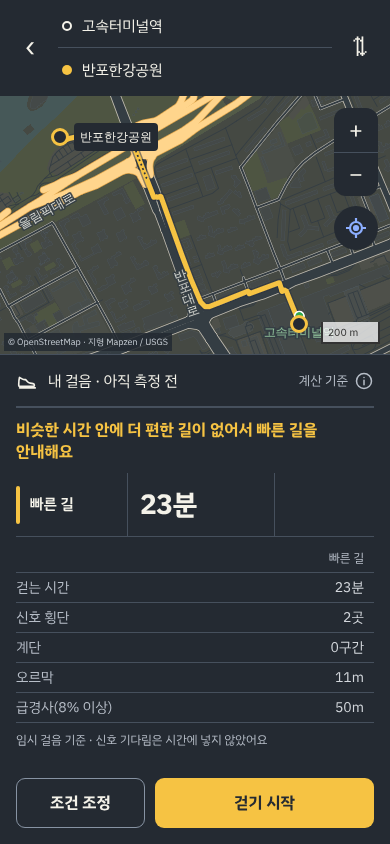
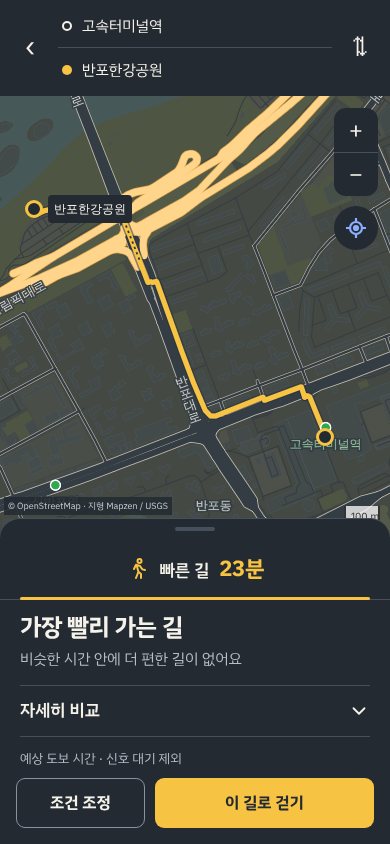
결과 시트를 목업 구조로: 쭉고 길/빠른 길 2열 탭(50:50·기준선 정렬), 배지·제목·부제, 자세히 비교(아이콘 표), 회색 빠른 길 실선과 이름표, 기존 쭉고 색 토큰 사용
- 탭: 같은 크기 글자로 아이콘·이름·시간 세로 가운데 일치, 좌우 여백 동일, 활성 밑줄은 탭 영역 안쪽
- 지도: 빠른 길 회색 실선(#959EAC) + 두 길이 가장 먼 지점에 이름표
- 자세히 비교 펼침 시 시트 74%까지, 나머지는 스크롤(지도 유지)
- 표 강조 기준: 시간 30초, 오르막 5m, 급경사 50m(부제의 '증가' 기준과 같음)
- check_screens: 두 탭 50:50·기준선, 제목·부제·배지, 도보 시간 안내 위치 검사 추가(26개 통과)

Claude-Session: https://claude.ai/code/session_01Y2WgFcYuk5dsuevPeJgQ1A

diff --git a/docs/prototype/index.html b/docs/prototype/index.html
@@ -73,6 +73,46 @@ button,input,select{font:inherit}button{color:inherit;cursor:pointer}button:disa
 .compare-line{margin:0;padding:12px 0 10px;border-top:1px solid var(--line);font-size:16px;font-weight:700;color:var(--lane);line-height:1.35}
 .metrics{margin:6px 0 4px;font-size:14px}.metrics .mrow{display:grid;grid-template-columns:38% 31% 31%;align-items:center;min-height:30px;border-bottom:1px solid var(--line)}.metrics.one .mrow{grid-template-columns:38% 62%}
 .metrics .mrow span:not(:first-child){text-align:right;padding-right:10px;color:#D3D7DC}.metrics .mrow span:first-child{color:var(--muted)}.metrics .mhead span{font-size:12px;color:var(--muted)!important}.metrics .better{color:var(--lane)!important;font-weight:700}
+/* 결과 시트: 빠른 길·쭉고 길 탭(정확한 2열), 배지·제목·부제, 자세히 비교 — 색은 기존 토큰(--lane, --asphalt, --panel, --line, --muted, --zebra)만 */
+#map-result{bottom:calc(var(--sheet-h) - 20px)}
+#sheet-result{border-radius:20px 20px 0 0;border-top:1px solid var(--line)}
+#sheet-result .grip-area{display:flex;justify-content:center;align-items:center;height:20px;padding:0;cursor:grab}
+#sheet-result .grip{width:40px;height:4px;border-radius:2px;background:var(--line);margin:0}
+#sheet-result .sheet-body{padding:0 20px}
+.rtabs{display:grid;grid-template-columns:1fr 1fr;margin:0 -20px;border-bottom:1px solid var(--line)}
+.rtabs.one{grid-template-columns:1fr}
+.rtab{position:relative;display:flex;align-items:center;justify-content:center;gap:10px;height:60px;padding:0 20px;border:0;background:none;color:var(--muted);min-width:0}
+.rtab .ti{width:24px;height:24px;flex:none}
+.rtab .tl{display:inline-flex;align-items:baseline;gap:10px;min-width:0;white-space:nowrap}
+.rtab .name{font-size:17px;font-weight:600;line-height:1}
+.rtab .mins{font-size:22px;font-weight:700;line-height:1;font-variant-numeric:tabular-nums;letter-spacing:-.3px}
+.rtab[aria-pressed=true] .ti,.rtab[aria-pressed=true] .mins{color:var(--lane)}
+.rtab[aria-pressed=true] .name{color:var(--zebra)}
+.rtab[aria-pressed=true]::after{content:"";position:absolute;left:20px;right:20px;bottom:-1px;height:3px;border-radius:2px;background:var(--lane)}
+.rbadge{display:inline-flex;align-items:center;gap:8px;margin:16px 0 0;padding:7px 12px 7px 10px;border:1px solid var(--line);border-radius:8px;background:var(--panel);color:var(--lane);font-size:14px;font-weight:600;line-height:1.2}
+.rbadge .ico{width:18px;height:18px;flex:none}
+.rhead{margin:12px 0 6px;font-size:24px;font-weight:700;line-height:1.3;letter-spacing:-.4px;color:var(--zebra)}
+.rsub{margin:0 0 14px;font-size:15px;color:var(--muted);line-height:1.45}
+.detail-toggle{display:flex;align-items:center;justify-content:space-between;width:100%;min-height:52px;padding:0;border:0;border-top:1px solid var(--line);border-bottom:1px solid var(--line);background:none;color:var(--zebra);font-size:17px;font-weight:600}
+.detail-toggle .ico{width:22px;height:22px;transition:transform .2s}
+.detail-toggle[aria-expanded=true] .ico{transform:rotate(180deg)}
+#result-options{padding-top:6px}
+.rfoot{margin:12px 0 4px;font-size:13px;color:var(--muted)}
+@media (prefers-reduced-motion:reduce){.detail-toggle .ico{transition:none}}
+/* 탭 글자: 이름과 시간을 같은 크기로 맞춰 기준선과 세로 가운데가 함께 맞게 */
+.rtab .tl{align-items:baseline}
+.rtab .name,.rtab .mins{font-size:20px;line-height:24px}
+.rtab .name{font-weight:600}.rtab .mins{font-weight:800}
+.rtab .ti{width:22px;height:22px}
+/* 지도 위 회색 길 이름표 */
+.m-label{display:flex;flex-direction:column;align-items:center;gap:1px;padding:5px 9px;border:1px solid var(--line);border-radius:8px;background:var(--panel);color:var(--muted);font-size:12px;line-height:1.25;pointer-events:none}
+.m-label b{font-weight:600}.m-label span{font-weight:700;color:var(--zebra)}
+/* 자세히 비교 표 아이콘 */
+.metrics .mrow span:first-child{display:flex;align-items:center;gap:10px}
+.metrics .mi{width:20px;height:20px;flex:none;color:var(--muted)}
+.metrics .mhead span{display:inline-flex;align-items:center;justify-content:flex-end;gap:5px}
+.metrics .mhead .ti{width:16px;height:16px;flex:none}
+.metrics .mhead .mh-j{color:var(--lane)!important}
 </style>
 
 <div class="phone" id="phone">
@@ -157,29 +197,33 @@ button,input,select{font:inherit}button{color:inherit;cursor:pointer}button:disa
         <div class="peek-sum" data-peek></div>
         <div class="status" id="result-status" data-mid-end hidden></div>
         <div id="result-content">
-          <div class="result-state"><span class="pace-label"><svg class="ico" viewBox="0 0 24 24" fill="none" stroke="currentColor" stroke-width="1.8" stroke-linecap="round" stroke-linejoin="round" aria-hidden="true"><path d="M3 15.5c0-2.6.3-5.6.8-7.4l2.8 1.6c.9.5 1.9.8 3 .8h.9l2.1 2.3c.8.9 1.8 1.3 2.9 1.5l3.1.6c1 .2 1.4.7 1.4 1.4v.7c0 .5-.4.9-.9.9H4c-.6 0-1-.5-1-1.2z"/><path d="M4 19.5h17"/></svg><span id="result-pace">내 걸음 · 아직 측정 전</span></span><button class="basis-btn" id="calc-basis" aria-expanded="false" aria-controls="result-options">계산 기준<svg class="ico" viewBox="0 0 24 24" fill="none" stroke="currentColor" stroke-width="1.8" stroke-linecap="round" aria-hidden="true"><circle cx="12" cy="12" r="9"/><path d="M12 11v5.5M12 7.8v.1"/></svg></button></div>
+          <div class="rtabs" id="route-cards" role="tablist" aria-label="길 비교">
+            <button class="rtab" data-route="jjuk" aria-pressed="true" id="card-jjuk"></button>
+            <button class="rtab" data-route="short" aria-pressed="false" id="card-short"></button>
+          </div>
+          <p class="rbadge" id="route-badge" hidden><svg class="ico" viewBox="0 0 24 24" fill="none" stroke="currentColor" stroke-width="1.8" stroke-linecap="round" stroke-linejoin="round" aria-hidden="true"><path id="route-badge-ico" d="M4 19h4v-4h4v-4h4V7h4"/></svg><span id="route-badge-text"></span></p>
+          <h2 class="rhead" id="route-headline"></h2>
+          <p class="rsub" id="route-sub"></p>
+          <p class="compare-line" id="compare-line" hidden></p>
+          <button class="detail-toggle" id="calc-basis" aria-expanded="false" aria-controls="result-options">자세히 비교<svg class="ico" viewBox="0 0 24 24" fill="none" stroke="currentColor" stroke-width="2" stroke-linecap="round" stroke-linejoin="round" aria-hidden="true"><path d="m6 9 6 6 6-6"/></svg></button>
           <div class="result-options" id="result-options" hidden>
-            <p class="safety" id="basis-signal">신호는 과거 이력이며 실시간이 아니에요. 요일·날짜별 차이는 확인하지 못했어요.</p>
+            <div class="metrics" id="route-metrics"></div>
+            <p class="safety" id="result-pace">내 걸음 · 아직 측정 전</p>
+            <p class="safety" id="basis-signal">신호 대기와 실시간 신호는 이 비교에 쓰지 않아요.</p>
             <p class="safety" id="route-facts"></p>
             <p class="cov" id="cov-note" hidden><span id="cov-text"></span></p>
             <p class="safety" id="result-safety"></p>
             <button class="link-btn" data-go="detail">횡단보도 자세히 보기</button>
           </div>
-          <p class="compare-line" id="compare-line"></p>
-          <div id="route-cards">
-            <button class="route" data-route="jjuk" aria-pressed="true" id="card-jjuk"></button>
-            <button class="route" data-route="short" aria-pressed="false" id="card-short"></button>
-          </div>
-          <div class="metrics" id="route-metrics"></div>
           <button class="unknown-row" id="unknown-xings" data-go="detail" hidden><svg class="ico" viewBox="0 0 24 24" fill="none" stroke="currentColor" stroke-width="1.8" stroke-linecap="round" aria-hidden="true"><circle cx="12" cy="12" r="9" stroke-dasharray="2.6 2.6"/><path d="M9.6 9.6a2.5 2.5 0 1 1 3.6 2.2c-.8.5-1.2 1-1.2 1.9M12 16.8v.1"/></svg><span id="unknown-xings-text"></span> <span class="go" aria-hidden="true">›</span></button>
-          <p class="safety" id="result-note"></p>
+          <p class="rfoot" id="result-note"></p>
           <p class="safety" id="result-location" role="status" hidden></p>
         </div>
       </div>
       <div class="sheet-footer" id="result-footer">
         <div class="actions" id="result-actions">
           <button class="btn btn-ghost" id="adjust-conditions" data-go="settings">조건 조정</button>
-          <button class="btn btn-primary" data-go="walk" id="start-walk">걷기 시작</button>
+          <button class="btn btn-primary" data-go="walk" id="start-walk">이 길로 걷기</button>
         </div>
       </div>
     </div>
@@ -769,7 +813,8 @@ function mapStyle() {
       st("major", kinds(MAJ), 9, { "line-color": "#343D43", "line-width": W([[9, .5], [12, 2], [14, 5], [16, 12], [18, 27]]) }),
       st("hw", kinds(HW), 8, { "line-color": "#FFD58C", "line-width": W([[8, .7], [12, 2.4], [14, 5.6], [16, 13], [18, 29]]) }),
       // 경로
-      { id: "route-short", type: "line", source: "rs", layout: { "line-cap": "round", "line-join": "round" }, filter: ["!", ["has", "u"]], paint: { "line-color": "#6E7889", "line-width": W([[12, 3], [18, 7]]), "line-dasharray": [.6, 1.6] } },
+      { id: "route-short-case", type: "line", source: "rs", layout: { "line-cap": "round", "line-join": "round" }, filter: ["!", ["has", "u"]], paint: { "line-color": "#2A3140", "line-opacity": .55, "line-width": W([[12, 6], [18, 12]]) } },
+      { id: "route-short", type: "line", source: "rs", layout: { "line-cap": "round", "line-join": "round" }, filter: ["!", ["has", "u"]], paint: { "line-color": "#959EAC", "line-width": W([[12, 3.5], [18, 7]]) } },
       { id: "route-jjuk-case", type: "line", source: "rj", filter: ["!", ["has", "u"]], layout: { "line-cap": "round", "line-join": "round" }, paint: { "line-color": "#2A3140", "line-opacity": .55, "line-width": W([[12, 7], [18, 14]]) } },
       { id: "route-jjuk", type: "line", source: "rj", filter: ["!", ["has", "u"]], layout: { "line-cap": "round", "line-join": "round" }, paint: { "line-color": "#F6C343", "line-width": W([[12, 4.5], [18, 9]]) } },
       { id: "route-jjuk-under", type: "line", source: "rj", filter: ["has", "u"], paint: { "line-color": "#2A3140", "line-width": W([[12, 1.5], [18, 3]]), "line-dasharray": [1, 1.5] } },
@@ -1091,6 +1136,30 @@ function compareLine(base, alt) {
   const list = parts.length === 1 ? parts[0] : parts.slice(0, -1).map((p, i) => i === parts.length - 2 ? josa(p, "과", "와") : p).join(", ") + " " + parts[parts.length - 1];
   const joined = parts.length <= 2 ? (parts.length === 2 ? josa(parts[0], "과", "와") + " " + parts[1] : parts[0]) : list;
   return `${josa(extraText(a.walk - b.walk), "으로", "로")} ${josa(joined, "을", "를")} ${avoidAll ? "피할" : "줄일"} 수 있어요`;
+}
+// 결과 시트 머리말: 배지·제목·부제(원시값으로만, 점수 없음)
+function aboutText(s) { s = Math.max(0, Math.round(s)); const m = Math.floor(s / 60), r = s % 60; return "약 " + (m ? m + "분" + (r ? " " + r + "초" : "") : r + "초"); }
+function routeSummary(base, alt, focus) {
+  const b = base.m, a = alt.m;
+  if (!alt || alt === base) return { badge: "", headline: "가장 빨리 가는 길", sub: "비슷한 시간 안에 더 편한 길이 없어요" };
+  if (focus === "short") return { badge: "", headline: "가장 빨리 가는 길", sub: `쭉고 길보다 ${aboutText(a.walk - b.walk)} 빨라요` };
+  const g = altGains(alt, base), order = ["stairs", "sig", "steep", "gain"].filter(k => g.includes(k)), parts = [];
+  let avoidAll = true;
+  for (const k of order) {
+    if (k === "stairs") { parts.push(`계단 ${b.stairs - a.stairs}구간`); avoidAll = avoidAll && a.stairs === 0; }
+    if (k === "sig") { parts.push(`신호 횡단 ${b.sig - a.sig}곳`); avoidAll = avoidAll && a.sig === 0; }
+    if (k === "steep") { parts.push(`급경사 ${Math.round((b.steep - a.steep) / 10) * 10}m`); avoidAll = avoidAll && a.steep < 10; }
+    if (k === "gain") { parts.push(`오르막 ${Math.round(b.gain - a.gain)}m`); avoidAll = false; }
+  }
+  const joined = parts.length === 1 ? parts[0] : josa(parts[0], "과", "와") + " " + parts.slice(1).join(", ");
+  const first = order[0];
+  const badge = first === "stairs" ? (a.stairs === 0 ? "계단 없이 더 편하게 걸어요" : "계단을 줄여 더 편하게 걸어요")
+    : first === "sig" ? "덜 멈추고 걸어요" : first === "steep" ? "가파른 길을 덜 걸어요" : "오르막을 덜 올라요";
+  const more = [`${aboutText(a.walk - b.walk)} 추가`];
+  if (a.sig > b.sig) more.push(`신호 횡단 ${a.sig - b.sig}곳 증가`);
+  if (a.gain - b.gain >= 1) more.push(`오르막 약 ${Math.round(a.gain - b.gain)}m 증가`);
+  if (a.steep - b.steep >= 10) more.push(`급경사 약 ${Math.round((a.steep - b.steep) / 10) * 10}m 증가`);
+  return { badge, kind: first, headline: `${josa(joined, "을", "를")} ${avoidAll ? "피하는" : "줄이는"} 길`, sub: more.join(" · ") };
 }
 async function computeTrip() {
   const request = ++tripRequest;
@@ -1724,9 +1793,10 @@ function paceRowText(ps){return ps.kind==='before'?'내 걸음 · '+ps.label:ps.
 function unknownXingText(sim){const n=sim.xings.filter(x=>!x.known).length;return n?`정보 없는 횡단 ${n}곳`:'';}
 // 시트 높이는 내용에 맞추되 지도가 일정 이상 남도록 제한한다. 지도는 시트 위 영역에만 놓인다.
 function fitResultSheet(){
-  const H=phoneH(),foot=$('result-footer');let need=2+(foot.hidden?0:foot.offsetHeight);
-  for(const c of $('sheet-result').querySelector('.sheet-body').children)if(!c.hidden)need+=c.offsetHeight;
-  const open=!$('result-options').hidden;setSheet('result',open?'full':'mid',Math.round(Math.min(Math.max(need,190),open?H-112:H*.62)));
+  // 내용 높이는 여백까지 포함해 재야 마지막 줄이 버튼 아래로 숨지 않는다(scrollHeight + 손잡이)
+  const H=phoneH(),foot=$('result-footer'),sh=$('sheet-result'),grip=sh.querySelector('.grip-area'),body=sh.querySelector('.sheet-body');
+  const prev=body.style.flex;body.style.flex='none';let need=2+(foot.hidden?0:foot.offsetHeight)+(grip?grip.offsetHeight:0)+body.scrollHeight;body.style.flex=prev;
+  const open=!$('result-options').hidden;setSheet('result',open?'full':'mid',Math.round(Math.min(Math.max(need,190),open?H*.74:H*.62)));   // 펼쳐도 지도가 보이게: 시트는 화면의 74%까지, 나머지는 시트 안에서 스크롤
 }
 function setBasisOpen(open){$('result-options').hidden=!open;$('calc-basis').setAttribute('aria-expanded',String(open));}
 async function renderResult(){
@@ -1742,21 +1812,31 @@ async function renderResult(){
   status.hidden=true;content.hidden=false;$('result-footer').hidden=false;
   const S=state.sims,ps=paceState(),R=state.routes,B=R.short.m,J=R.jjuk.m;setText('result-pace',paceRowText(ps));
   // 빠른 길 vs 쭉고 길: 걷는 시간과 이동 마찰 원시값만 보여 준다(점수 없음). 쭉고 길은 의미 있는 대안이 있을 때만.
-  for(const k of ['jjuk','short']){const c=$('card-'+k),m=R[k].m;c.hidden=k==='short'&&state.same;c.setAttribute('aria-pressed',String(state.focus===k));
-    const extra=k==='jjuk'&&!state.same?extraText(m.walk-B.walk):'';
-    c.innerHTML=`<span class="name">${k==='jjuk'&&!state.same?'쭉고 길':'빠른 길'}</span><span class="mins">${mins(m.walk)}</span><span class="margin">${extra||(state.same?'':'가장 빠름')}</span>`;}
+  const WALK=`<svg class="ti" viewBox="0 0 24 24" fill="none" stroke="currentColor" stroke-width="2" stroke-linecap="round" stroke-linejoin="round" aria-hidden="true"><circle cx="13.5" cy="4" r="2"/><path d="M10 21l2.4-6.2L15 17v4M8 12l2-4.2 4 1.2 2.4 3.4 2.6.6M12.4 14.8 11 9.4"/></svg>`;
+  $('route-cards').classList.toggle('one',state.same);
+  for(const k of ['jjuk','short']){const c=$('card-'+k),m=R[k].m;c.hidden=k==='short'&&state.same;c.setAttribute('aria-pressed',String(state.same||state.focus===k));c.setAttribute('role','tab');c.setAttribute('aria-selected',String(state.same||state.focus===k));
+    c.innerHTML=`${WALK}<span class="tl"><span class="name">${k==='jjuk'&&!state.same?'쭉고 길':'빠른 길'}</span><span class="mins">${mins(m.walk)}</span></span>`;}
   setText('compare-line',state.same?'비슷한 시간 안에 더 편한 길이 없어서 빠른 길을 안내해요':compareLine(R.short,R.jjuk));
+  {const sm=routeSummary(R.short,state.same?R.short:R.jjuk,state.same?'jjuk':state.focus);$('route-badge').hidden=!sm.badge;setText('route-badge-text',sm.badge);$('route-badge-ico').setAttribute('d',{stairs:'M4 19h4v-4h4v-4h4V7h4',sig:'M9 3h6a1 1 0 0 1 1 1v13a1 1 0 0 1-1 1H9a1 1 0 0 1-1-1V4a1 1 0 0 1 1-1zM12 6.5v.1M12 10.5v.1M12 14.5v.1M12 18v3',steep:'M3 20 10 8l4 6 2-3 5 9z',gain:'M3 20 10 8l4 6 2-3 5 9z'}[sm.kind]||'M4 19h4v-4h4v-4h4V7h4');setText('route-headline',sm.headline);setText('route-sub',sm.sub);}
+  // 지표 아이콘(선 아이콘, 글자색을 따름)
+  const ic=d=>`<svg class="mi" viewBox="0 0 24 24" fill="none" stroke="currentColor" stroke-width="1.8" stroke-linecap="round" stroke-linejoin="round" aria-hidden="true">${d}</svg>`;
+  const MICO={walk:ic('<circle cx="12" cy="12" r="9"/><path d="M12 7v5l3 2"/>'),sig:ic('<rect x="8" y="3" width="8" height="15" rx="1.5"/><path d="M12 6.5v.1M12 10.5v.1M12 14.5v.1M12 18v3"/>'),stairs:ic('<path d="M4 19h4v-4h4v-4h4V7h4"/>'),gain:ic('<path d="M3 19 9 9l4 6 3-4 5 8z"/>'),steep:ic('<path d="M4 19h16L20 7z"/>')};
   const rows=[['걷는 시간',m=>mins(m.walk),'walk'],['신호 횡단',m=>m.sig+'곳','sig'],['계단',m=>m.stairs+'구간','stairs'],['오르막',m=>Math.round(m.gain)+'m','gain'],['급경사(8% 이상)',m=>Math.round(m.steep/10)*10+'m','steep']];
-  const cell=(m,o,k)=>{const v=m[k],w=o?o[k]:v,better=o&&(k==='walk'?v<w-0.5:v<w-(k==='gain'?0.5:k==='steep'?5:0.5));return `<span${better?' class="better"':''}>`;};
-  $('route-metrics').innerHTML=`<div class="mrow mhead"><span></span><span>빠른 길</span>${state.same?'':'<span>쭉고 길</span>'}</div>`+rows.map(([label,f,k])=>`<div class="mrow"><span>${label}</span>${cell(B,state.same?null:J,k)}${f(B)}</span>${state.same?'':`${cell(J,B,k)}${f(J)}</span>`}</div>`).join('');
+  const cell=(m,o,k)=>{const v=m[k],w=o?o[k]:v,better=o&&(k==='walk'?v<w-30:v<w-(k==='gain'?5:k==='steep'?50:0.5));return `<span${better?' class="better"':''}>`;};
+  $('route-metrics').innerHTML=`<div class="mrow mhead"><span></span>${state.same?'':`<span class="mh-j">${WALK}쭉고 길</span>`}<span>${WALK}빠른 길</span></div>`+rows.map(([label,f,k])=>`<div class="mrow"><span>${MICO[k]}${label}</span>${state.same?'':`${cell(J,B,k)}${f(J)}</span>`}${cell(B,state.same?null:J,k)}${f(B)}</span></div>`).join('');
   $('route-metrics').classList.toggle('one',state.same);
   const sim=S[state.focus],r=state.routes[state.focus];
   $('unknown-xings').hidden=true;
-  setText('result-note',`${ps.kind==='learned'||ps.kind==='manual'?'내 걸음':'임시 걸음'} 기준 · 신호 기다림은 시간에 넣지 않았어요`);
+  setText('result-note','예상 도보 시간 · 신호 대기 제외');
   setText('route-facts',`거리 ${km(r.length)} · 시간은 걷는 시간만(신호 기다림 제외) · 추가 ${Math.min(state.budget,180)/60}분 이내의 길만 비교`);
   $('cov-note').hidden=true;
   setText('result-safety',`신호 횡단은 서울시 횡단보도 자료(보행등 있음)로 세며 일부만 확인돼 실제보다 적을 수 있어요. 오르막·급경사는 서울시 등고선으로 계산한 추정이고, 계단은 지도에 표시된 곳만 세요. 실제 신호·턱·출입구는 현장에서 확인해 주세요.${readProfile().avoidSteps?' 계단은 제외했어요.':''}`);
-  setRoutes(r,state.same?null:state.routes[state.focus==='jjuk'?'short':'jjuk']);markTrip(null,state.focus,false);fitResultSheet();
+  setRoutes(r,state.same?null:state.routes[state.focus==='jjuk'?'short':'jjuk']);markTrip(null,state.focus,false);
+  // 회색 길 위에 이름표: 두 길이 가장 멀리 떨어진 지점(겹치지 않는 곳)에 붙인다
+  if(!state.same){const ok=state.focus==='jjuk'?'short':'jjuk',oc=state.routes[ok].coords,fc=r.coords;let best=null,bd=-1;
+    const ends=[fc[0],fc[fc.length-1]];for(let i=0;i<oc.length;i++){if(ends.some(e=>distLL(e,oc[i])<90))continue;let m=Infinity;for(let j=0;j<fc.length;j+=Math.max(1,fc.length>>7))m=Math.min(m,distLL(oc[i],fc[j]));if(m>bd){bd=m;best=oc[i];}}
+    if(best&&bd>15)addDyn(el('m-label',`<b>${ok==='jjuk'?'쭉고 길':'빠른 길'}</b><span>${mins(state.routes[ok].m.walk)}</span>`),best,{anchor:'bottom',offset:[0,-8]});}
+  fitResultSheet();
   if(state.fitted!==state.tripKey){fit([state.routes.jjuk.coords,state.routes.short.coords]);state.fitted=state.tripKey;}
 }
 function renderDetail(){if(!state.sims)return go('home');const xs=state.sims[state.focus].xings;setText('detail-title',`경로의 횡단 정보 ${xs.length}곳`);$('detail-list').innerHTML=xs.map(x=>`<div class="xing"><span>○</span><div><b>${esc(x.name)}</b><small>${x.known?'과거 신호 이력 있음':'신호 정보 미확인'} · 횡단 여유 미확인</small></div></div>`).join('')+'<p class="note">과거 신호 이력은 지금 켜진 불이 아니에요. 횡단 방향·길이·점멸 시간이 검증되기 전에는 남은 초나 건너도 된다는 안내를 하지 않아요.</p>';}

diff --git a/docs/prototype/src/screens.js b/docs/prototype/src/screens.js
@@ -69,9 +69,10 @@ function paceRowText(ps){return ps.kind==='before'?'내 걸음 · '+ps.label:ps.
 function unknownXingText(sim){const n=sim.xings.filter(x=>!x.known).length;return n?`정보 없는 횡단 ${n}곳`:'';}
 // 시트 높이는 내용에 맞추되 지도가 일정 이상 남도록 제한한다. 지도는 시트 위 영역에만 놓인다.
 function fitResultSheet(){
-  const H=phoneH(),foot=$('result-footer');let need=2+(foot.hidden?0:foot.offsetHeight);
-  for(const c of $('sheet-result').querySelector('.sheet-body').children)if(!c.hidden)need+=c.offsetHeight;
-  const open=!$('result-options').hidden;setSheet('result',open?'full':'mid',Math.round(Math.min(Math.max(need,190),open?H-112:H*.62)));
+  // 내용 높이는 여백까지 포함해 재야 마지막 줄이 버튼 아래로 숨지 않는다(scrollHeight + 손잡이)
+  const H=phoneH(),foot=$('result-footer'),sh=$('sheet-result'),grip=sh.querySelector('.grip-area'),body=sh.querySelector('.sheet-body');
+  const prev=body.style.flex;body.style.flex='none';let need=2+(foot.hidden?0:foot.offsetHeight)+(grip?grip.offsetHeight:0)+body.scrollHeight;body.style.flex=prev;
+  const open=!$('result-options').hidden;setSheet('result',open?'full':'mid',Math.round(Math.min(Math.max(need,190),open?H*.74:H*.62)));   // 펼쳐도 지도가 보이게: 시트는 화면의 74%까지, 나머지는 시트 안에서 스크롤
 }
 function setBasisOpen(open){$('result-options').hidden=!open;$('calc-basis').setAttribute('aria-expanded',String(open));}
 async function renderResult(){
@@ -87,21 +88,31 @@ async function renderResult(){
   status.hidden=true;content.hidden=false;$('result-footer').hidden=false;
   const S=state.sims,ps=paceState(),R=state.routes,B=R.short.m,J=R.jjuk.m;setText('result-pace',paceRowText(ps));
   // 빠른 길 vs 쭉고 길: 걷는 시간과 이동 마찰 원시값만 보여 준다(점수 없음). 쭉고 길은 의미 있는 대안이 있을 때만.
-  for(const k of ['jjuk','short']){const c=$('card-'+k),m=R[k].m;c.hidden=k==='short'&&state.same;c.setAttribute('aria-pressed',String(state.focus===k));
-    const extra=k==='jjuk'&&!state.same?extraText(m.walk-B.walk):'';
-    c.innerHTML=`<span class="name">${k==='jjuk'&&!state.same?'쭉고 길':'빠른 길'}</span><span class="mins">${mins(m.walk)}</span><span class="margin">${extra||(state.same?'':'가장 빠름')}</span>`;}
+  const WALK=`<svg class="ti" viewBox="0 0 24 24" fill="none" stroke="currentColor" stroke-width="2" stroke-linecap="round" stroke-linejoin="round" aria-hidden="true"><circle cx="13.5" cy="4" r="2"/><path d="M10 21l2.4-6.2L15 17v4M8 12l2-4.2 4 1.2 2.4 3.4 2.6.6M12.4 14.8 11 9.4"/></svg>`;
+  $('route-cards').classList.toggle('one',state.same);
+  for(const k of ['jjuk','short']){const c=$('card-'+k),m=R[k].m;c.hidden=k==='short'&&state.same;c.setAttribute('aria-pressed',String(state.same||state.focus===k));c.setAttribute('role','tab');c.setAttribute('aria-selected',String(state.same||state.focus===k));
+    c.innerHTML=`${WALK}<span class="tl"><span class="name">${k==='jjuk'&&!state.same?'쭉고 길':'빠른 길'}</span><span class="mins">${mins(m.walk)}</span></span>`;}
   setText('compare-line',state.same?'비슷한 시간 안에 더 편한 길이 없어서 빠른 길을 안내해요':compareLine(R.short,R.jjuk));
+  {const sm=routeSummary(R.short,state.same?R.short:R.jjuk,state.same?'jjuk':state.focus);$('route-badge').hidden=!sm.badge;setText('route-badge-text',sm.badge);$('route-badge-ico').setAttribute('d',{stairs:'M4 19h4v-4h4v-4h4V7h4',sig:'M9 3h6a1 1 0 0 1 1 1v13a1 1 0 0 1-1 1H9a1 1 0 0 1-1-1V4a1 1 0 0 1 1-1zM12 6.5v.1M12 10.5v.1M12 14.5v.1M12 18v3',steep:'M3 20 10 8l4 6 2-3 5 9z',gain:'M3 20 10 8l4 6 2-3 5 9z'}[sm.kind]||'M4 19h4v-4h4v-4h4V7h4');setText('route-headline',sm.headline);setText('route-sub',sm.sub);}
+  // 지표 아이콘(선 아이콘, 글자색을 따름)
+  const ic=d=>`<svg class="mi" viewBox="0 0 24 24" fill="none" stroke="currentColor" stroke-width="1.8" stroke-linecap="round" stroke-linejoin="round" aria-hidden="true">${d}</svg>`;
+  const MICO={walk:ic('<circle cx="12" cy="12" r="9"/><path d="M12 7v5l3 2"/>'),sig:ic('<rect x="8" y="3" width="8" height="15" rx="1.5"/><path d="M12 6.5v.1M12 10.5v.1M12 14.5v.1M12 18v3"/>'),stairs:ic('<path d="M4 19h4v-4h4v-4h4V7h4"/>'),gain:ic('<path d="M3 19 9 9l4 6 3-4 5 8z"/>'),steep:ic('<path d="M4 19h16L20 7z"/>')};
   const rows=[['걷는 시간',m=>mins(m.walk),'walk'],['신호 횡단',m=>m.sig+'곳','sig'],['계단',m=>m.stairs+'구간','stairs'],['오르막',m=>Math.round(m.gain)+'m','gain'],['급경사(8% 이상)',m=>Math.round(m.steep/10)*10+'m','steep']];
-  const cell=(m,o,k)=>{const v=m[k],w=o?o[k]:v,better=o&&(k==='walk'?v<w-0.5:v<w-(k==='gain'?0.5:k==='steep'?5:0.5));return `<span${better?' class="better"':''}>`;};
-  $('route-metrics').innerHTML=`<div class="mrow mhead"><span></span><span>빠른 길</span>${state.same?'':'<span>쭉고 길</span>'}</div>`+rows.map(([label,f,k])=>`<div class="mrow"><span>${label}</span>${cell(B,state.same?null:J,k)}${f(B)}</span>${state.same?'':`${cell(J,B,k)}${f(J)}</span>`}</div>`).join('');
+  const cell=(m,o,k)=>{const v=m[k],w=o?o[k]:v,better=o&&(k==='walk'?v<w-30:v<w-(k==='gain'?5:k==='steep'?50:0.5));return `<span${better?' class="better"':''}>`;};
+  $('route-metrics').innerHTML=`<div class="mrow mhead"><span></span>${state.same?'':`<span class="mh-j">${WALK}쭉고 길</span>`}<span>${WALK}빠른 길</span></div>`+rows.map(([label,f,k])=>`<div class="mrow"><span>${MICO[k]}${label}</span>${state.same?'':`${cell(J,B,k)}${f(J)}</span>`}${cell(B,state.same?null:J,k)}${f(B)}</span></div>`).join('');
   $('route-metrics').classList.toggle('one',state.same);
   const sim=S[state.focus],r=state.routes[state.focus];
   $('unknown-xings').hidden=true;
-  setText('result-note',`${ps.kind==='learned'||ps.kind==='manual'?'내 걸음':'임시 걸음'} 기준 · 신호 기다림은 시간에 넣지 않았어요`);
+  setText('result-note','예상 도보 시간 · 신호 대기 제외');
   setText('route-facts',`거리 ${km(r.length)} · 시간은 걷는 시간만(신호 기다림 제외) · 추가 ${Math.min(state.budget,180)/60}분 이내의 길만 비교`);
   $('cov-note').hidden=true;
   setText('result-safety',`신호 횡단은 서울시 횡단보도 자료(보행등 있음)로 세며 일부만 확인돼 실제보다 적을 수 있어요. 오르막·급경사는 서울시 등고선으로 계산한 추정이고, 계단은 지도에 표시된 곳만 세요. 실제 신호·턱·출입구는 현장에서 확인해 주세요.${readProfile().avoidSteps?' 계단은 제외했어요.':''}`);
-  setRoutes(r,state.same?null:state.routes[state.focus==='jjuk'?'short':'jjuk']);markTrip(null,state.focus,false);fitResultSheet();
+  setRoutes(r,state.same?null:state.routes[state.focus==='jjuk'?'short':'jjuk']);markTrip(null,state.focus,false);
+  // 회색 길 위에 이름표: 두 길이 가장 멀리 떨어진 지점(겹치지 않는 곳)에 붙인다
+  if(!state.same){const ok=state.focus==='jjuk'?'short':'jjuk',oc=state.routes[ok].coords,fc=r.coords;let best=null,bd=-1;
+    const ends=[fc[0],fc[fc.length-1]];for(let i=0;i<oc.length;i++){if(ends.some(e=>distLL(e,oc[i])<90))continue;let m=Infinity;for(let j=0;j<fc.length;j+=Math.max(1,fc.length>>7))m=Math.min(m,distLL(oc[i],fc[j]));if(m>bd){bd=m;best=oc[i];}}
+    if(best&&bd>15)addDyn(el('m-label',`<b>${ok==='jjuk'?'쭉고 길':'빠른 길'}</b><span>${mins(state.routes[ok].m.walk)}</span>`),best,{anchor:'bottom',offset:[0,-8]});}
+  fitResultSheet();
   if(state.fitted!==state.tripKey){fit([state.routes.jjuk.coords,state.routes.short.coords]);state.fitted=state.tripKey;}
 }
 function renderDetail(){if(!state.sims)return go('home');const xs=state.sims[state.focus].xings;setText('detail-title',`경로의 횡단 정보 ${xs.length}곳`);$('detail-list').innerHTML=xs.map(x=>`<div class="xing"><span>○</span><div><b>${esc(x.name)}</b><small>${x.known?'과거 신호 이력 있음':'신호 정보 미확인'} · 횡단 여유 미확인</small></div></div>`).join('')+'<p class="note">과거 신호 이력은 지금 켜진 불이 아니에요. 횡단 방향·길이·점멸 시간이 검증되기 전에는 남은 초나 건너도 된다는 안내를 하지 않아요.</p>';}

diff --git a/docs/prototype/src/app.js b/docs/prototype/src/app.js
@@ -409,7 +409,8 @@ function mapStyle() {
       st("major", kinds(MAJ), 9, { "line-color": "#343D43", "line-width": W([[9, .5], [12, 2], [14, 5], [16, 12], [18, 27]]) }),
       st("hw", kinds(HW), 8, { "line-color": "#FFD58C", "line-width": W([[8, .7], [12, 2.4], [14, 5.6], [16, 13], [18, 29]]) }),
       // 경로
-      { id: "route-short", type: "line", source: "rs", layout: { "line-cap": "round", "line-join": "round" }, filter: ["!", ["has", "u"]], paint: { "line-color": "#6E7889", "line-width": W([[12, 3], [18, 7]]), "line-dasharray": [.6, 1.6] } },
+      { id: "route-short-case", type: "line", source: "rs", layout: { "line-cap": "round", "line-join": "round" }, filter: ["!", ["has", "u"]], paint: { "line-color": "#2A3140", "line-opacity": .55, "line-width": W([[12, 6], [18, 12]]) } },
+      { id: "route-short", type: "line", source: "rs", layout: { "line-cap": "round", "line-join": "round" }, filter: ["!", ["has", "u"]], paint: { "line-color": "#959EAC", "line-width": W([[12, 3.5], [18, 7]]) } },
       { id: "route-jjuk-case", type: "line", source: "rj", filter: ["!", ["has", "u"]], layout: { "line-cap": "round", "line-join": "round" }, paint: { "line-color": "#2A3140", "line-opacity": .55, "line-width": W([[12, 7], [18, 14]]) } },
       { id: "route-jjuk", type: "line", source: "rj", filter: ["!", ["has", "u"]], layout: { "line-cap": "round", "line-join": "round" }, paint: { "line-color": "#F6C343", "line-width": W([[12, 4.5], [18, 9]]) } },
       { id: "route-jjuk-under", type: "line", source: "rj", filter: ["has", "u"], paint: { "line-color": "#2A3140", "line-width": W([[12, 1.5], [18, 3]]), "line-dasharray": [1, 1.5] } },
@@ -731,6 +732,30 @@ function compareLine(base, alt) {
   const list = parts.length === 1 ? parts[0] : parts.slice(0, -1).map((p, i) => i === parts.length - 2 ? josa(p, "과", "와") : p).join(", ") + " " + parts[parts.length - 1];
   const joined = parts.length <= 2 ? (parts.length === 2 ? josa(parts[0], "과", "와") + " " + parts[1] : parts[0]) : list;
   return `${josa(extraText(a.walk - b.walk), "으로", "로")} ${josa(joined, "을", "를")} ${avoidAll ? "피할" : "줄일"} 수 있어요`;
+}
+// 결과 시트 머리말: 배지·제목·부제(원시값으로만, 점수 없음)
+function aboutText(s) { s = Math.max(0, Math.round(s)); const m = Math.floor(s / 60), r = s % 60; return "약 " + (m ? m + "분" + (r ? " " + r + "초" : "") : r + "초"); }
+function routeSummary(base, alt, focus) {
+  const b = base.m, a = alt.m;
+  if (!alt || alt === base) return { badge: "", headline: "가장 빨리 가는 길", sub: "비슷한 시간 안에 더 편한 길이 없어요" };
+  if (focus === "short") return { badge: "", headline: "가장 빨리 가는 길", sub: `쭉고 길보다 ${aboutText(a.walk - b.walk)} 빨라요` };
+  const g = altGains(alt, base), order = ["stairs", "sig", "steep", "gain"].filter(k => g.includes(k)), parts = [];
+  let avoidAll = true;
+  for (const k of order) {
+    if (k === "stairs") { parts.push(`계단 ${b.stairs - a.stairs}구간`); avoidAll = avoidAll && a.stairs === 0; }
+    if (k === "sig") { parts.push(`신호 횡단 ${b.sig - a.sig}곳`); avoidAll = avoidAll && a.sig === 0; }
+    if (k === "steep") { parts.push(`급경사 ${Math.round((b.steep - a.steep) / 10) * 10}m`); avoidAll = avoidAll && a.steep < 10; }
+    if (k === "gain") { parts.push(`오르막 ${Math.round(b.gain - a.gain)}m`); avoidAll = false; }
+  }
+  const joined = parts.length === 1 ? parts[0] : josa(parts[0], "과", "와") + " " + parts.slice(1).join(", ");
+  const first = order[0];
+  const badge = first === "stairs" ? (a.stairs === 0 ? "계단 없이 더 편하게 걸어요" : "계단을 줄여 더 편하게 걸어요")
+    : first === "sig" ? "덜 멈추고 걸어요" : first === "steep" ? "가파른 길을 덜 걸어요" : "오르막을 덜 올라요";
+  const more = [`${aboutText(a.walk - b.walk)} 추가`];
+  if (a.sig > b.sig) more.push(`신호 횡단 ${a.sig - b.sig}곳 증가`);
+  if (a.gain - b.gain >= 1) more.push(`오르막 약 ${Math.round(a.gain - b.gain)}m 증가`);
+  if (a.steep - b.steep >= 10) more.push(`급경사 약 ${Math.round((a.steep - b.steep) / 10) * 10}m 증가`);
+  return { badge, kind: first, headline: `${josa(joined, "을", "를")} ${avoidAll ? "피하는" : "줄이는"} 길`, sub: more.join(" · ") };
 }
 async function computeTrip() {
   const request = ++tripRequest;

diff --git a/docs/prototype/src/template.html b/docs/prototype/src/template.html
@@ -93,29 +93,33 @@
         <div class="peek-sum" data-peek></div>
         <div class="status" id="result-status" data-mid-end hidden></div>
         <div id="result-content">
-          <div class="result-state"><span class="pace-label"><svg class="ico" viewBox="0 0 24 24" fill="none" stroke="currentColor" stroke-width="1.8" stroke-linecap="round" stroke-linejoin="round" aria-hidden="true"><path d="M3 15.5c0-2.6.3-5.6.8-7.4l2.8 1.6c.9.5 1.9.8 3 .8h.9l2.1 2.3c.8.9 1.8 1.3 2.9 1.5l3.1.6c1 .2 1.4.7 1.4 1.4v.7c0 .5-.4.9-.9.9H4c-.6 0-1-.5-1-1.2z"/><path d="M4 19.5h17"/></svg><span id="result-pace">내 걸음 · 아직 측정 전</span></span><button class="basis-btn" id="calc-basis" aria-expanded="false" aria-controls="result-options">계산 기준<svg class="ico" viewBox="0 0 24 24" fill="none" stroke="currentColor" stroke-width="1.8" stroke-linecap="round" aria-hidden="true"><circle cx="12" cy="12" r="9"/><path d="M12 11v5.5M12 7.8v.1"/></svg></button></div>
+          <div class="rtabs" id="route-cards" role="tablist" aria-label="길 비교">
+            <button class="rtab" data-route="jjuk" aria-pressed="true" id="card-jjuk"></button>
+            <button class="rtab" data-route="short" aria-pressed="false" id="card-short"></button>
+          </div>
+          <p class="rbadge" id="route-badge" hidden><svg class="ico" viewBox="0 0 24 24" fill="none" stroke="currentColor" stroke-width="1.8" stroke-linecap="round" stroke-linejoin="round" aria-hidden="true"><path id="route-badge-ico" d="M4 19h4v-4h4v-4h4V7h4"/></svg><span id="route-badge-text"></span></p>
+          <h2 class="rhead" id="route-headline"></h2>
+          <p class="rsub" id="route-sub"></p>
+          <p class="compare-line" id="compare-line" hidden></p>
+          <button class="detail-toggle" id="calc-basis" aria-expanded="false" aria-controls="result-options">자세히 비교<svg class="ico" viewBox="0 0 24 24" fill="none" stroke="currentColor" stroke-width="2" stroke-linecap="round" stroke-linejoin="round" aria-hidden="true"><path d="m6 9 6 6 6-6"/></svg></button>
           <div class="result-options" id="result-options" hidden>
-            <p class="safety" id="basis-signal">신호는 과거 이력이며 실시간이 아니에요. 요일·날짜별 차이는 확인하지 못했어요.</p>
+            <div class="metrics" id="route-metrics"></div>
+            <p class="safety" id="result-pace">내 걸음 · 아직 측정 전</p>
+            <p class="safety" id="basis-signal">신호 대기와 실시간 신호는 이 비교에 쓰지 않아요.</p>
             <p class="safety" id="route-facts"></p>
             <p class="cov" id="cov-note" hidden><span id="cov-text"></span></p>
             <p class="safety" id="result-safety"></p>
             <button class="link-btn" data-go="detail">횡단보도 자세히 보기</button>
           </div>
-          <p class="compare-line" id="compare-line"></p>
-          <div id="route-cards">
-            <button class="route" data-route="jjuk" aria-pressed="true" id="card-jjuk"></button>
-            <button class="route" data-route="short" aria-pressed="false" id="card-short"></button>
-          </div>
-          <div class="metrics" id="route-metrics"></div>
           <button class="unknown-row" id="unknown-xings" data-go="detail" hidden><svg class="ico" viewBox="0 0 24 24" fill="none" stroke="currentColor" stroke-width="1.8" stroke-linecap="round" aria-hidden="true"><circle cx="12" cy="12" r="9" stroke-dasharray="2.6 2.6"/><path d="M9.6 9.6a2.5 2.5 0 1 1 3.6 2.2c-.8.5-1.2 1-1.2 1.9M12 16.8v.1"/></svg><span id="unknown-xings-text"></span> <span class="go" aria-hidden="true">›</span></button>
-          <p class="safety" id="result-note"></p>
+          <p class="rfoot" id="result-note"></p>
           <p class="safety" id="result-location" role="status" hidden></p>
         </div>
       </div>
       <div class="sheet-footer" id="result-footer">
         <div class="actions" id="result-actions">
           <button class="btn btn-ghost" id="adjust-conditions" data-go="settings">조건 조정</button>
-          <button class="btn btn-primary" data-go="walk" id="start-walk">걷기 시작</button>
+          <button class="btn btn-primary" data-go="walk" id="start-walk">이 길로 걷기</button>
         </div>
       </div>
     </div>

diff --git a/docs/prototype/src/asphalt.css b/docs/prototype/src/asphalt.css
@@ -62,3 +62,43 @@ button,input,select{font:inherit}button{color:inherit;cursor:pointer}button:disa
 .compare-line{margin:0;padding:12px 0 10px;border-top:1px solid var(--line);font-size:16px;font-weight:700;color:var(--lane);line-height:1.35}
 .metrics{margin:6px 0 4px;font-size:14px}.metrics .mrow{display:grid;grid-template-columns:38% 31% 31%;align-items:center;min-height:30px;border-bottom:1px solid var(--line)}.metrics.one .mrow{grid-template-columns:38% 62%}
 .metrics .mrow span:not(:first-child){text-align:right;padding-right:10px;color:#D3D7DC}.metrics .mrow span:first-child{color:var(--muted)}.metrics .mhead span{font-size:12px;color:var(--muted)!important}.metrics .better{color:var(--lane)!important;font-weight:700}
+/* 결과 시트: 빠른 길·쭉고 길 탭(정확한 2열), 배지·제목·부제, 자세히 비교 — 색은 기존 토큰(--lane, --asphalt, --panel, --line, --muted, --zebra)만 */
+#map-result{bottom:calc(var(--sheet-h) - 20px)}
+#sheet-result{border-radius:20px 20px 0 0;border-top:1px solid var(--line)}
+#sheet-result .grip-area{display:flex;justify-content:center;align-items:center;height:20px;padding:0;cursor:grab}
+#sheet-result .grip{width:40px;height:4px;border-radius:2px;background:var(--line);margin:0}
+#sheet-result .sheet-body{padding:0 20px}
+.rtabs{display:grid;grid-template-columns:1fr 1fr;margin:0 -20px;border-bottom:1px solid var(--line)}
+.rtabs.one{grid-template-columns:1fr}
+.rtab{position:relative;display:flex;align-items:center;justify-content:center;gap:10px;height:60px;padding:0 20px;border:0;background:none;color:var(--muted);min-width:0}
+.rtab .ti{width:24px;height:24px;flex:none}
+.rtab .tl{display:inline-flex;align-items:baseline;gap:10px;min-width:0;white-space:nowrap}
+.rtab .name{font-size:17px;font-weight:600;line-height:1}
+.rtab .mins{font-size:22px;font-weight:700;line-height:1;font-variant-numeric:tabular-nums;letter-spacing:-.3px}
+.rtab[aria-pressed=true] .ti,.rtab[aria-pressed=true] .mins{color:var(--lane)}
+.rtab[aria-pressed=true] .name{color:var(--zebra)}
+.rtab[aria-pressed=true]::after{content:"";position:absolute;left:20px;right:20px;bottom:-1px;height:3px;border-radius:2px;background:var(--lane)}
+.rbadge{display:inline-flex;align-items:center;gap:8px;margin:16px 0 0;padding:7px 12px 7px 10px;border:1px solid var(--line);border-radius:8px;background:var(--panel);color:var(--lane);font-size:14px;font-weight:600;line-height:1.2}
+.rbadge .ico{width:18px;height:18px;flex:none}
+.rhead{margin:12px 0 6px;font-size:24px;font-weight:700;line-height:1.3;letter-spacing:-.4px;color:var(--zebra)}
+.rsub{margin:0 0 14px;font-size:15px;color:var(--muted);line-height:1.45}
+.detail-toggle{display:flex;align-items:center;justify-content:space-between;width:100%;min-height:52px;padding:0;border:0;border-top:1px solid var(--line);border-bottom:1px solid var(--line);background:none;color:var(--zebra);font-size:17px;font-weight:600}
+.detail-toggle .ico{width:22px;height:22px;transition:transform .2s}
+.detail-toggle[aria-expanded=true] .ico{transform:rotate(180deg)}
+#result-options{padding-top:6px}
+.rfoot{margin:12px 0 4px;font-size:13px;color:var(--muted)}
+@media (prefers-reduced-motion:reduce){.detail-toggle .ico{transition:none}}
+/* 탭 글자: 이름과 시간을 같은 크기로 맞춰 기준선과 세로 가운데가 함께 맞게 */
+.rtab .tl{align-items:baseline}
+.rtab .name,.rtab .mins{font-size:20px;line-height:24px}
+.rtab .name{font-weight:600}.rtab .mins{font-weight:800}
+.rtab .ti{width:22px;height:22px}
+/* 지도 위 회색 길 이름표 */
+.m-label{display:flex;flex-direction:column;align-items:center;gap:1px;padding:5px 9px;border:1px solid var(--line);border-radius:8px;background:var(--panel);color:var(--muted);font-size:12px;line-height:1.25;pointer-events:none}
+.m-label b{font-weight:600}.m-label span{font-weight:700;color:var(--zebra)}
+/* 자세히 비교 표 아이콘 */
+.metrics .mrow span:first-child{display:flex;align-items:center;gap:10px}
+.metrics .mi{width:20px;height:20px;flex:none;color:var(--muted)}
+.metrics .mhead span{display:inline-flex;align-items:center;justify-content:flex-end;gap:5px}
+.metrics .mhead .ti{width:16px;height:16px;flex:none}
+.metrics .mhead .mh-j{color:var(--lane)!important}
